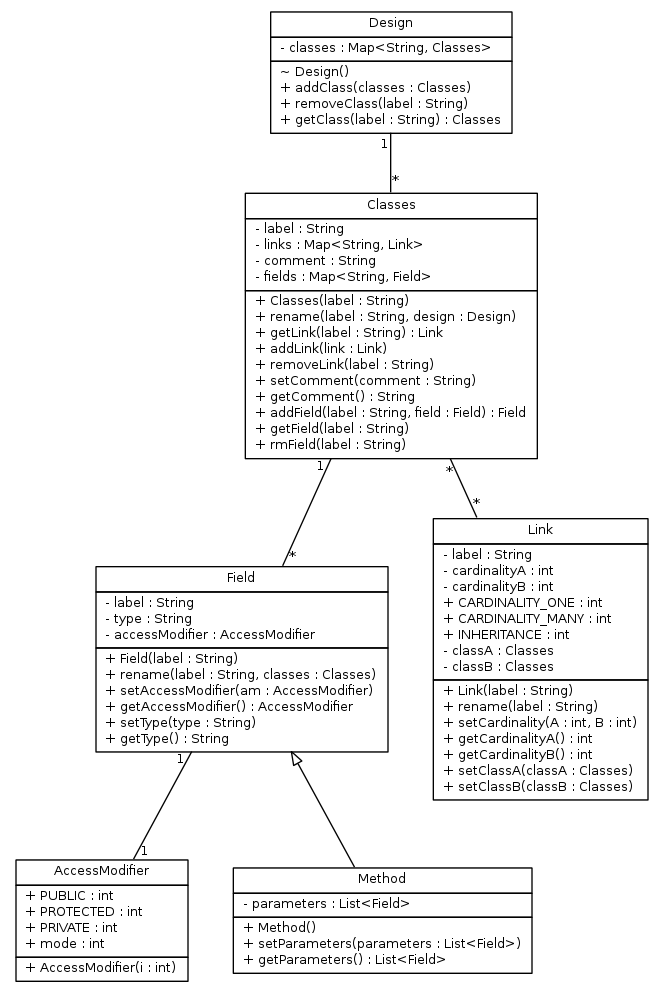
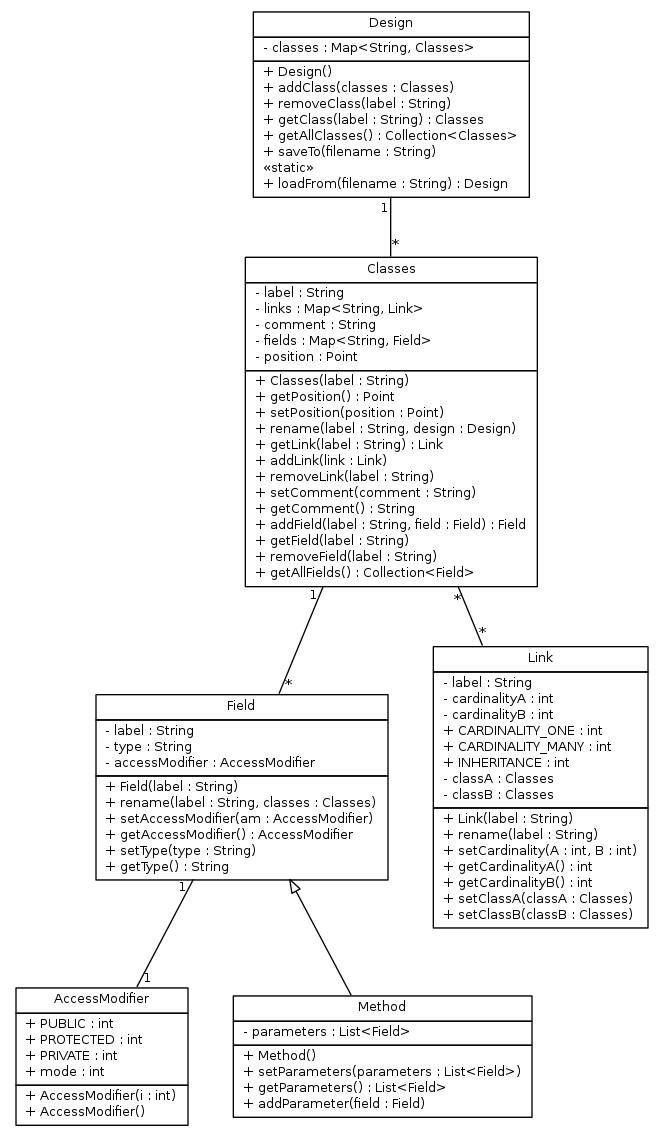
Updated DataClassDiagram.png.

diff --git a/documentation/DataClassDiagram.java b/documentation/DataClassDiagram.java
@@ -7,6 +7,14 @@ class Map<K,V> {}
  * @hidden
  */
 class List<T> {}
+/**
+ * @hidden
+ */
+class Point {}
+/**
+ * @hidden
+ */
+class Collection<V> {}
 
 /**
  * @opt all
@@ -18,8 +26,12 @@ class Classes {
 	private Map<String,Link> links;
 	private String comment;
 	private Map<String,Field> fields;
+	private Point position;
 
 	public Classes(String label) {}
+	
+	public Point getPosition() {}
+	public void setPosition(Point position) {}
 
 	public void rename(String label, Design design) {}
 	
@@ -32,7 +44,9 @@ class Classes {
 
 	public Field addField(String label, Field field) {}
 	public void getField(String label) {}
-	public void rmField(String label) {}
+	public void removeField(String label) {}
+	
+	public Collection<Field> getAllFields() {}
 }
 
 /**
@@ -67,6 +81,7 @@ class AccessModifier {
 	public int mode;
 
 	public AccessModifier(int i) {}
+	public AccessModifier() {}
 }
 
 /**
@@ -100,10 +115,20 @@ class Link {
  */
 class Design {
 	private Map<String,Classes> classes;
+	
+	public Design() {}
 
 	public void addClass(Classes classes) {}
 	public void removeClass(String label) {}
 	public Classes getClass(String label) {}
+	
+	public Collection<Classes> getAllClasses() {}
+	
+	public void saveTo(String filename) {}
+	/**
+	 * @stereotype static
+	 */
+	public static Design loadFrom(String filename) {}
 }
 
 /**
@@ -114,6 +139,7 @@ class Method extends Field {
 	
 	public void setParameters(List<Field> parameters) {}
 	public List<Field> getParameters() {}
+	public void addParameter(Field field) {}
 
 	public Method() {}
 }

diff --git a/src/model/Method.java b/src/model/Method.java
@@ -25,6 +25,9 @@ public class Method extends Field implements java.io.Serializable {
 	
 	public void addParameter(Field parameter)
 	{
+		/**
+		 * Add a single parameter to this method's current parameter list.
+		 */
 		parameters.add(parameter);
 	}
 
